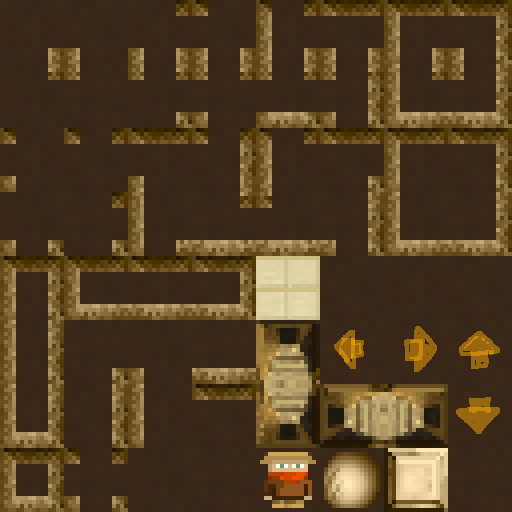
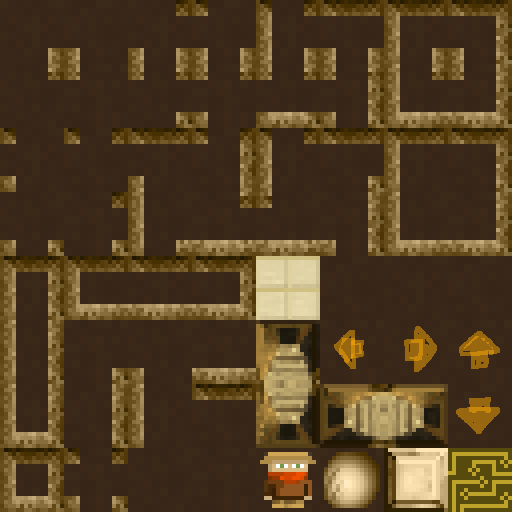
collectables and arrows

Changed region(s): [[0.875, 0.875, 1.0, 1.0]]

diff --git a/src/js/states/play.js b/src/js/states/play.js
@@ -10,43 +10,15 @@ function StaticGameObject(game, hp, dmg, def, aliveSprite, deadSprite) {
 	this.aliveSprite = aliveSprite;
 	this.deadSprite = deadSprite;
 	
-	this.hp = hp;
+	this._hp = hp;
+	this._hpMax = hp;
 	this.dmg = dmg;
 	this.def = def;
 	
+	this.blocksOnDeath = true;
 	this.canDie = false;
 	this.controllable = false;
-}
-
-StaticGameObject.prototype = Object.create(Phaser.Sprite.prototype);
-StaticGameObject.prototype.constructor = StaticGameObject;
-
-function Wall(game, x, y) {
-	StaticGameObject.call(this, game, 0, 0, 0, 'block', 'block');
-	this.x = x;
-	this.y = y;
-	this.tint = 0x888888;
-}
-
-Wall.prototype = Object.create(StaticGameObject.prototype);
-Wall.prototype.constructor = Wall;
-
-function ActiveGameObject(game, hp, dmg, def, aliveSprite, deadSprite) {
-	StaticGameObject.call(this, game,  hp, dmg, def, aliveSprite, deadSprite);
-	
-	this.commandQueueIndex = 0;
-	this.commandQueue = [];
-	this.aliveSprite = aliveSprite;
-	this.deadSprite = deadSprite;
-	
-	this.hp = hp;
-	this.dmg = dmg;
-	this.def = def;
-	this.speed = 512;
-	this.range = 64;
-	
-	this.controllable = true;
-	this.commandDeffer = null;
+	this.canCollect = false;
 	
 	this.collisionMask = 31;// everything
 	
@@ -57,6 +29,53 @@ function ActiveGameObject(game, hp, dmg, def, aliveSprite, deadSprite) {
 	this.body.collideWorldBounds = true;
 	this.body.bounce.set(0);
 	this.body.setSize(62, 62, 1, 1);
+}
+
+StaticGameObject.prototype = Object.create(Phaser.Sprite.prototype);
+StaticGameObject.prototype.constructor = StaticGameObject;
+
+Object.defineProperty(StaticGameObject.prototype, 'hp', {
+    get: function() {
+        return this._hp;
+    },
+
+    set: function(value) {
+		//console.log('HP:', value, this);
+        return this._hp = value;
+    }
+});
+
+function Techcard(game, x, y) {
+	StaticGameObject.call(this, game, 0, 0, 0, 'techcard', 'techcard');
+	this.x = x;
+	this.y = y;
+}
+
+Techcard.prototype = Object.create(StaticGameObject.prototype);
+Techcard.prototype.constructor = Techcard;
+
+Techcard.prototype.collect = function() {
+	this.alpha = 0;
+};
+
+function ActiveGameObject(game, hp, dmg, def, aliveSprite, deadSprite) {
+	StaticGameObject.call(this, game,  hp, dmg, def, aliveSprite, deadSprite);
+	
+	this.commandQueueIndex = 0;
+	this.commandQueue = [];
+	this.currentAction = null;
+	this.aliveSprite = aliveSprite;
+	this.deadSprite = deadSprite;
+	
+	this.hp = hp;
+	this.dmg = dmg;
+	this.def = def;
+	this.collisionDmg = 0;
+	this.speed = 512;
+	this.range = 64;
+	
+	this.controllable = true;
+	this.commandDeffer = null;
 }
 
 ActiveGameObject.prototype = Object.create(StaticGameObject.prototype);
@@ -108,6 +127,8 @@ ActiveGameObject.prototype.getAction = function(command) {
 };
 
 ActiveGameObject.prototype.executeCommand = function(command) {
+	this._hp = this._hpMax;
+	
 	var action = this.getAction(command);
 	
 	//action.x = Math.max(Math.min(action.x, 800 - 32), 32);
@@ -165,7 +186,9 @@ function Hero(game, x, y) {
 	this.x = x;
 	this.y = y;
 	
+	this.blocksOnDeath = false;
 	this.canDie = true;
+	this.canCollect = true;
 	
 	this.collisionMask = 1;// walls
 }
@@ -174,7 +197,7 @@ Hero.prototype = Object.create(ActiveGameObject.prototype);
 Hero.prototype.constructor = Hero;
 
 function Rock(game, x, y) {
-	ActiveGameObject.call(this, game, 1, 2, 1, 'rock', 'rock-dead');
+	ActiveGameObject.call(this, game, 2, 2, 1, 'rock', 'rock-dead');
 	this.x = x;
 	this.y = y;
 	this.range = 1024;
@@ -193,6 +216,97 @@ function Block(game, x, y) {
 
 Block.prototype = Object.create(ActiveGameObject.prototype);
 Block.prototype.constructor = Block;
+
+function Arrow(game, x, y) {
+	ActiveGameObject.call(this, game, 1, 1, 0, 'arrow', 'arrow-dead');
+	this.x = x;
+	this.y = y;
+	this.range = 1024;
+	this.blocksOnDeath = false;
+	this.controllable = false;
+	
+	this.collisionDmg = 1;
+	
+	this.body.setSize(32, 54, 0, 0);
+}
+
+Arrow.prototype = Object.create(ActiveGameObject.prototype);
+Arrow.prototype.constructor = Arrow;
+
+function Bow(game, x, y, arrow, direction) {
+	ActiveGameObject.call(this, game, 2, 0, 2, 'bow', 'bow');
+	this.x = x;
+	this.y = y;
+	this.arrow = arrow;
+	this.arrow.alpha = 0;
+	
+	this.direction = direction || 'D';
+	switch (this.direction) {
+		case 'R':
+			this.angle = -90;
+			break;
+		case 'L':
+			this.angle = 90;
+			break;
+		case 'U':
+			this.angle = 180;
+			break;
+		case 'D':
+			this.angle = 0;
+			break;
+	}
+}
+
+Bow.prototype = Object.create(ActiveGameObject.prototype);
+Bow.prototype.constructor = Bow;
+
+Bow.prototype.executeCommand = function() {
+	var action = this.getAction(this.direction);
+	this.arrow.body.x = action.x;
+	this.arrow.body.y = action.y;
+	this.arrow.angle = action.angle;
+	this.arrow.alive = true;
+	this.arrow.alpha = 1;
+	this.arrow.loadTexture(this.arrow.aliveSprite);
+	
+	//action.x = Math.max(Math.min(action.x, 800 - 32), 32);
+	//action.y = Math.max(Math.min(action.y, 600 - 32), 32);
+	
+	//var distance = Math.max(Math.abs(this.x - action.x), Math.abs(this.y - action.y)) / 64;
+	
+	return this.arrow.executeCommand(action.type);
+};
+
+Bow.prototype.getAction = function(command) {
+	var action = {
+		angle: this.angle
+	};
+	switch (command) {
+		case 'R':
+			action.x = this.x + 32;
+			action.y = this.y - 32;
+			action.type = 'right';
+			break;
+		case 'L':
+			action.x = this.x - 96;
+			action.y = this.y - 32;
+			action.type = 'left';
+			break;
+		case 'U':
+			action.x = this.x - 32;
+			action.y = this.y - 96;
+			action.type = 'up';
+			break;
+		case 'B':
+			action.x = this.x - 32;
+			action.y = this.y + 32;
+			action.type = 'down';
+			break;
+	}
+	
+	return action;
+};
+
 
 function Play() {}
 
@@ -224,6 +338,8 @@ Play.prototype = {
 		//this.mapTiles.debug = true;
 		
 		
+		this.collectableGroup = this.game.add.group();
+		this.arrowsGroup = this.game.add.group();
 		this.commandableGroup = this.game.add.group();
 		
 		var objectsLayer = this.map.layers[this.map.getLayerIndex('Objects')];
@@ -241,10 +357,22 @@ Play.prototype = {
 						case 'Block':
 							this.commandableGroup.add(new Block(this.game, tile.worldX + 32, tile.worldY + 32));
 							break;
+						case 'Bow':
+							var arrow = new Arrow(this.game, tile.worldX + 32, tile.worldY + 32);
+							this.arrowsGroup.add(arrow);
+							this.commandableGroup.add(new Bow(this.game, tile.worldX + 32, tile.worldY + 32, arrow, tile.properties.direction));
+							break;
+						case 'Techcard':
+							this.collectableGroup.add(new Techcard(this.game, tile.worldX + 32, tile.worldY + 32));
+							break;
 					}
 				}
 			}, this));
 		}, this));
+		
+		//var arrow = new Arrow(this.game, 3 * 64 + 32, 32);
+		//this.commandableGroup.add(arrow);
+		//this.commandableGroup.add(new Bow(this.game, 3 * 64 + 32, 32, arrow));
 		
 		this.setupKeyboard();
 	},
@@ -280,33 +408,65 @@ Play.prototype = {
 		
 		// use overlap for checking collision groups  
 		this.game.physics.arcade.overlap(this.mapTiles, this.commandableGroup, _.bind(this.onTileCollision, this));
+		this.game.physics.arcade.overlap(this.mapTiles, this.arrowsGroup, _.bind(this.onArrowTileCollision, this));
 		
-		this.game.physics.arcade.collide(this.commandableGroup, this.commandableGroup, _.bind(this.onCollision, this));
+		this.game.physics.arcade.overlap(this.commandableGroup, this.arrowsGroup, _.bind(this.onArrowCollision, this));
+		this.game.physics.arcade.overlap(this.commandableGroup, this.commandableGroup, _.bind(this.onCollision, this));
+		
+		this.game.physics.arcade.overlap(this.commandableGroup, this.collectableGroup, _.bind(this.onCollectableCollision, this));
+	},
+	onArrowCollision: function(obj, arrow) {
+		//console.log('onArrowCollision', obj, arrow);
+		arrow.onDeath();
+		
+		obj.hp -= Math.max(arrow.dmg - obj.def, 0);
+		
+		if (obj.hp <= 0) {
+			obj.onDeath();
+		}
+	},
+	onArrowTileCollision: function(arrow, tile) {
+		//console.log('onArrowTileCollision', tile, arrow);
+		if (parseInt(tile.properties.collisionGroup | 0) & arrow.collisionMask) {
+			arrow.onDeath();
+		}
+	},
+	onTileCollision: function(obj, tile) {
+		//a.stop();
+		//console.log('collision', obj, tile);
+		if (parseInt(tile.properties.collisionGroup | 0) & obj.collisionMask) {
+			obj.stop();
+		}
 	},
 	onCollision: function(objA, objB) {
-		if (objA.hp <= 0) {
+		if (objA.hp <= 0 && !objA.blocksOnDeath) {
 			return;
 		}
 		
-		if (objB.hp <= 0) {
+		if (objB.hp <= 0 && !objB.blocksOnDeath) {
 			return;
 		}
 		
-		if ((objA.currentAction.x > 0 && objA.body.x < objB.body.x) || (objA.currentAction.x < 0 && objA.body.x > objB.body.x)) {
-			objB.hp -= Math.max(objA.dmg - objB.def, 0);
+		if (objA.currentAction !== null) {
+			if ((objA.currentAction.x > 0 && objA.body.x < objB.body.x) || (objA.currentAction.x < 0 && objA.body.x > objB.body.x)) {
+				objB.hp -= Math.max(objA.dmg - objB.def, 0);
+			}
+			if ((objA.currentAction.y > 0 && objA.body.y < objB.body.y) || (objA.currentAction.y < 0 && objA.body.y > objB.body.y)) {
+				objB.hp -= Math.max(objA.dmg - objB.def, 0);
+			}
+			objA.hp -= objA.collisionDmg;
+			objA.stop();
 		}
-		if ((objB.currentAction.x > 0 && objB.body.x < objA.body.x) || (objB.currentAction.x < 0 && objB.body.x > objA.body.x)) {
-			objA.hp -= Math.max(objB.dmg - objA.def, 0);
+		if (objB.currentAction !== null) {
+			if ((objB.currentAction.x > 0 && objB.body.x < objA.body.x) || (objB.currentAction.x < 0 && objB.body.x > objA.body.x)) {
+				objA.hp -= Math.max(objB.dmg - objA.def, 0);
+			}
+			if ((objB.currentAction.y > 0 && objB.body.y < objA.body.y) || (objB.currentAction.y < 0 && objB.body.y > objA.body.y)) {
+				objA.hp -= Math.max(objB.dmg - objA.def, 0);
+			}
+			objB.hp -= objA.collisionDmg;
+			objB.stop();
 		}
-		if ((objA.currentAction.y > 0 && objA.body.y < objB.body.y) || (objA.currentAction.y < 0 && objA.body.y > objB.body.y)) {
-			objB.hp -= Math.max(objA.dmg - objB.def, 0);
-		}
-		if ((objB.currentAction.y > 0 && objB.body.y < objA.body.y) || (objB.currentAction.y < 0 && objB.body.y > objA.body.y)) {
-			objA.hp -= Math.max(objB.dmg - objA.def, 0);
-		}
-		
-		objA.stop();
-		objB.stop();
 		
 		if (objA.hp <= 0) {
 			objA.onDeath();
@@ -316,11 +476,11 @@ Play.prototype = {
 			objB.onDeath();
 		}
 	},
-	onTileCollision: function(a, b) {
-		//a.stop();
-		//console.log('collision', a, b);
-		if (parseInt(b.properties.collisionGroup | 0) & a.collisionMask) {
-			a.stop();
+	onCollectableCollision: function(obj, collectable) {
+		console.log('onCollectableCollision', obj, collectable);
+		
+		if (obj.canCollect) {
+			collectable.collect();
 		}
 	},
 	addCommand: function(command) {

diff --git a/src/js/states/preload.js b/src/js/states/preload.js
@@ -19,6 +19,10 @@ Preload.prototype = {
 		this.load.image('rock', 'assets/rock.png');
 		this.load.image('rock-dead', 'assets/rock-dead.png');
 		this.load.image('block', 'assets/block.png');
+		this.load.image('bow', 'assets/bow.png');
+		this.load.image('arrow', 'assets/arrow.png');
+		this.load.image('techcard', 'assets/techcard.png');
+		this.load.image('arrow-dead', 'assets/broken-arrow.png');
 		
 		this.load.tilemap('map', 'assets/test.json', null, Phaser.Tilemap.TILED_JSON);
 		this.load.tilemap('level-1', 'assets/level01.json', null, Phaser.Tilemap.TILED_JSON);
